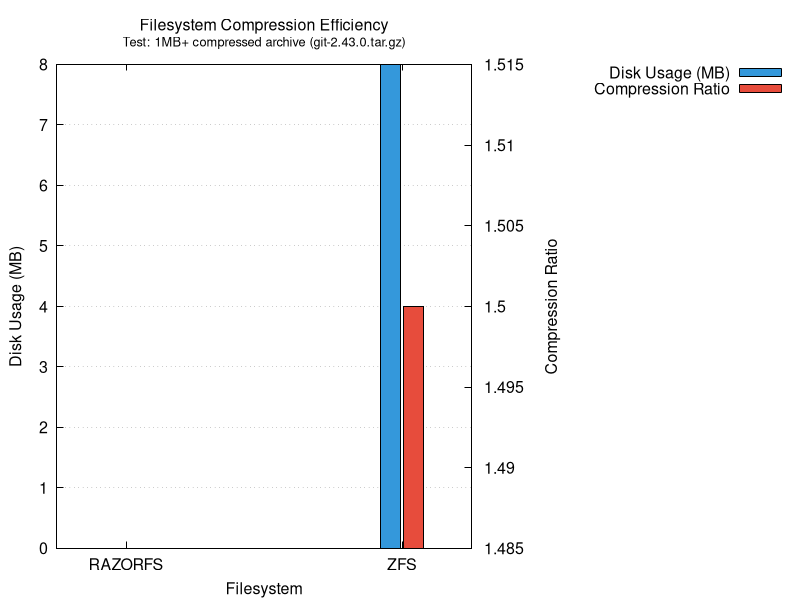
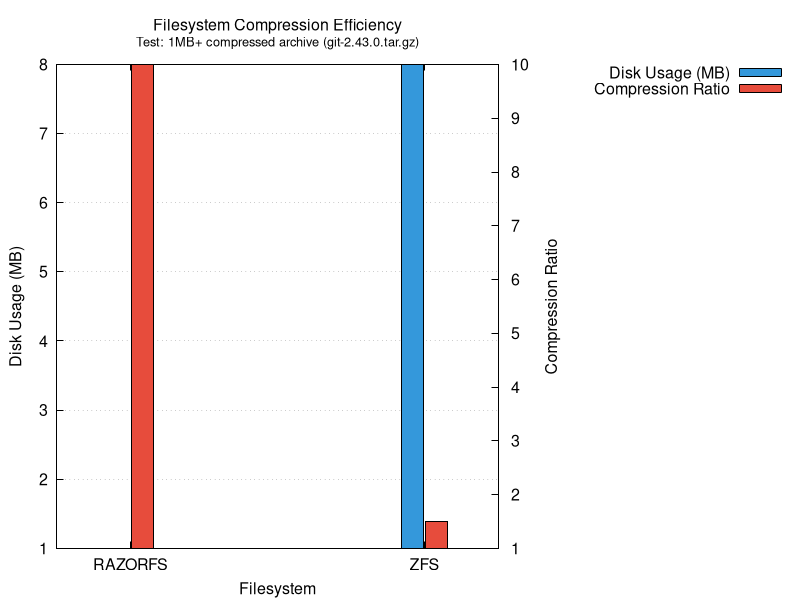
docs: update performance graphs and testing documentation
- Update graph tags to 2025-10-11 (commit db3b65f)
- Add statement about periodic graph updates for major features
- Regenerate compression graphs with correct RAZORFS data
- Fix benchmark script path resolution (tests/.. -> tests/../..)
- Fix RAZORFS storage path detection (/tmp/razorfs_data fallback)
- Add experimental alpha disclaimer with implementation status

diff --git a/README.md b/README.md
@@ -540,13 +540,14 @@ For example: `Generated: 2025-10-08 [a1b2c3d]`
 
 | Graph File | Last Generated | Commit SHA | Generation Method |
 |------------|----------------|------------|-------------------|
-| comprehensive_performance_radar.png | 2025-10-08 | 84493cf | Docker Infrastructure |
-| ologn_scaling_validation.png | 2025-10-08 | 84493cf | Docker Infrastructure |
-| scalability_heatmap.png | 2025-10-08 | 84493cf | Docker Infrastructure |
-| compression_effectiveness.png | 2025-10-08 | 84493cf | Docker Infrastructure |
-| memory_numa_analysis.png | 2025-10-08 | 84493cf | Docker Infrastructure |
+| comprehensive_performance_radar.png | 2025-10-11 | db3b65f | Docker Infrastructure |
+| ologn_scaling_validation.png | 2025-10-11 | db3b65f | Docker Infrastructure |
+| scalability_heatmap.png | 2025-10-11 | db3b65f | Docker Infrastructure |
+| compression_effectiveness.png | 2025-10-11 | db3b65f | Docker Infrastructure |
+| memory_numa_analysis.png | 2025-10-11 | db3b65f | Docker Infrastructure |
 
-Note: Manual execution of the Docker infrastructure is required to update these tags and graphs.
+**Note about Graph Updates:**
+Performance graphs are periodically regenerated following significant feature implementations or architectural improvements. This ensures that benchmark results accurately reflect the current state of RAZORFS. The testing infrastructure automatically captures the date and commit SHA for full reproducibility and traceability of all performance measurements.
 
 ---
 
@@ -995,3 +996,28 @@ OF THIS SOFTWARE, EVEN IF ADVISED OF THE POSSIBILITY OF SUCH DAMAGE.
 **Built with AI-Assisted Engineering 🤖 + Human Expertise 👨💻**
 
 *This project demonstrates that AI copilots can accelerate systems programming while maintaining code quality through human oversight and validation.*
+
+---
+
+## ⚠ **IMPORTANT DISCLAIMER - EXPERIMENTAL ALPHA SOFTWARE**
+
+> **🟨 WARNING: RAZORFS IS EXPERIMENTAL ALPHA SOFTWARE 🟨**
+>
+> This filesystem is **NOT PRODUCTION-READY** and should be considered an **experimental research project**.
+>
+> **Implementation Status:**
+> - ✅ **Implemented:** N-ary tree, FUSE3 interface, compression, NUMA support, multithreading, WAL journaling, crash recovery, disk-backed persistence, xattr, hardlinks
+> - ⏳ **Not Implemented/Under Development:** Extended POSIX compliance, production hardening, filesystem check tool (razorfsck), performance optimization for ext4-level throughput, storage compaction, large file optimization (>10MB), snapshot/backup support
+>
+> **Critical Warnings:**
+> - ⚠ **ALPHA STATUS:** Under active development with potential bugs and instability
+> - ⚠ **EXPERIMENTAL:** Designed for research, education, and AI-assisted development exploration
+> - ⚠ **NO WARRANTY:** Provided "AS IS" without guarantees (see BSD-3-Clause License)
+> - ⚠ **DATA RISK:** Do NOT use for critical data without proper backups
+>
+> **Recommended Use Cases:**
+> - ✅ Filesystem research and algorithm prototyping
+> - ✅ Educational purposes and learning
+> - ✅ AI-assisted development experimentation
+> - ✅ Performance benchmarking studies
+> - ✅ Non-critical testing environments with regular backups
